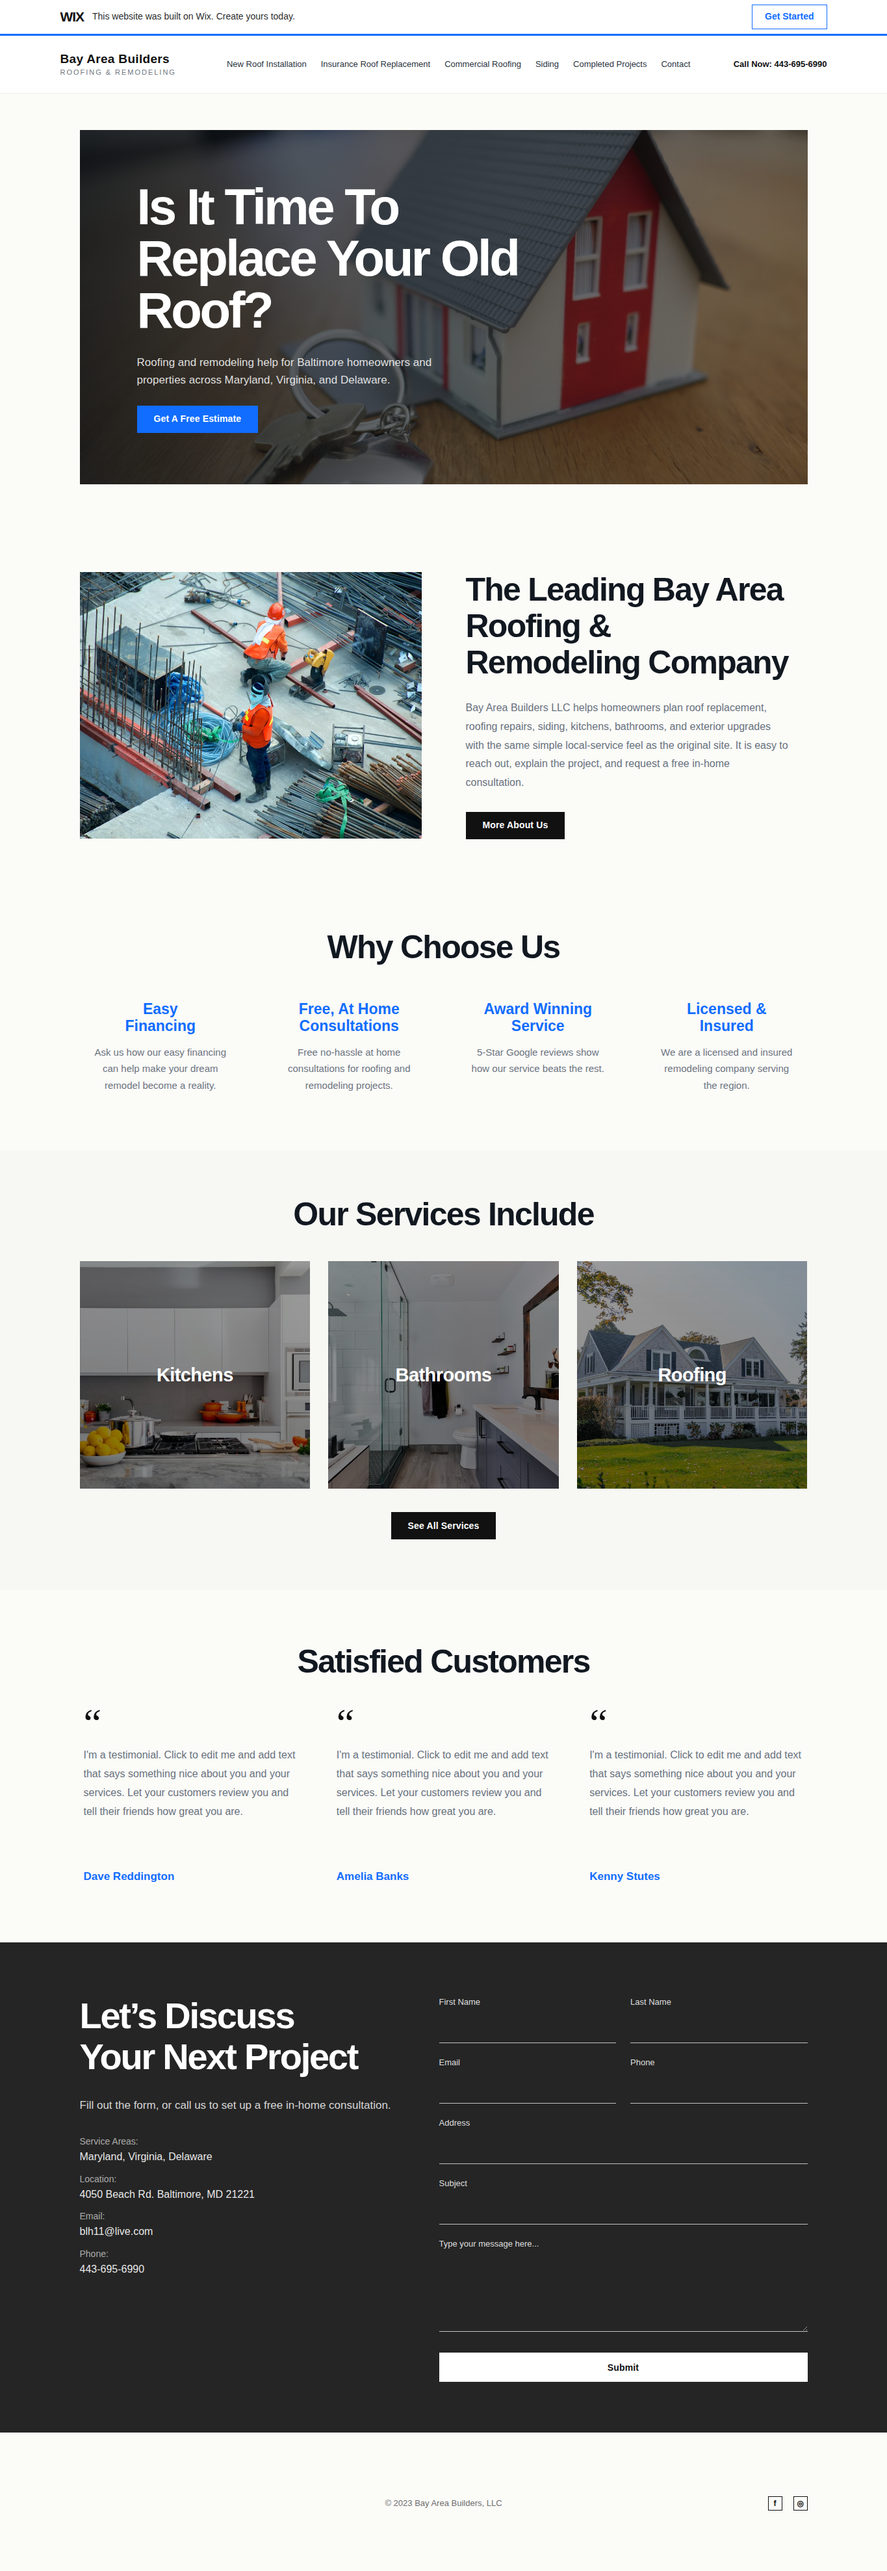
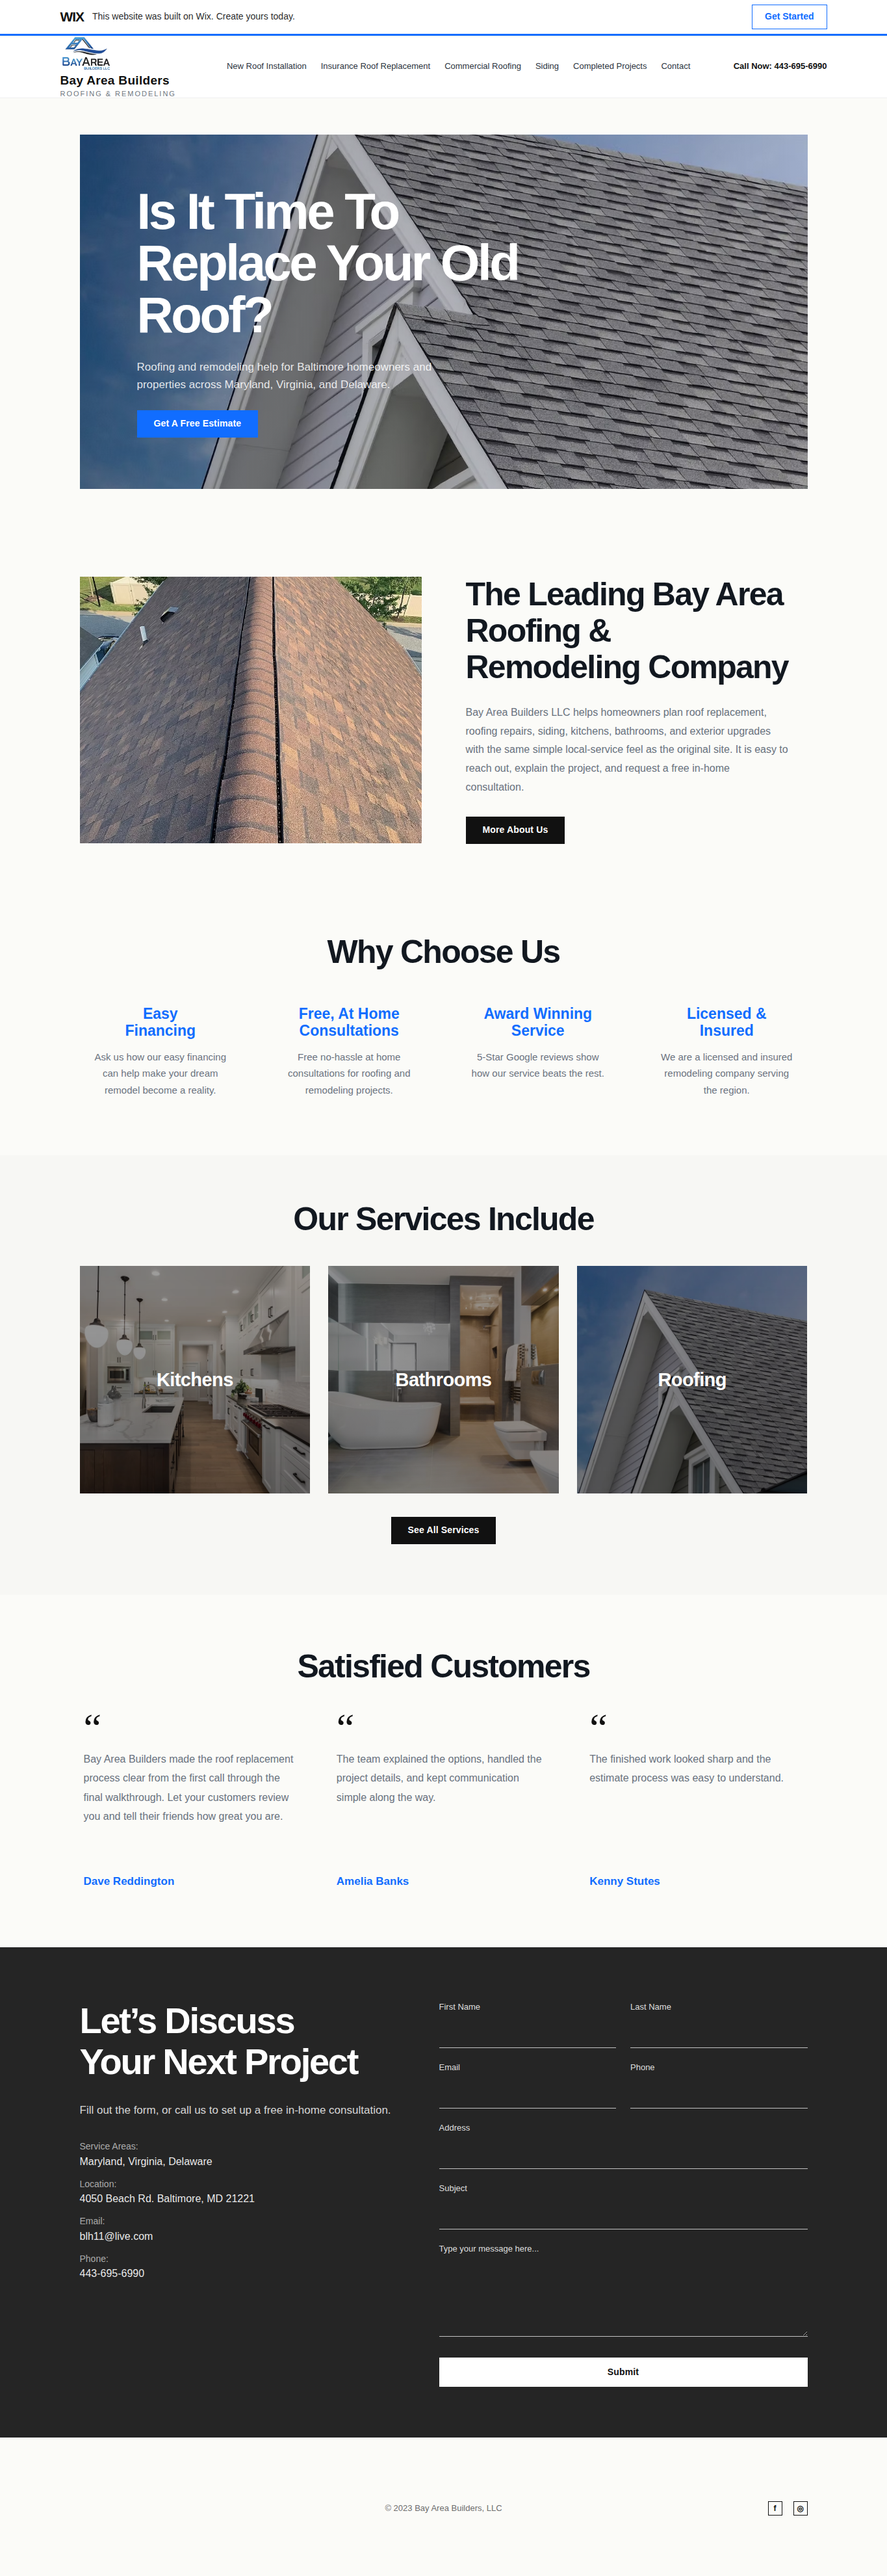
Use original Bay Area website assets

diff --git a/prototypes/2026-05-12-2117-5target-trace/bay-area-builders-llc/index.html b/prototypes/2026-05-12-2117-5target-trace/bay-area-builders-llc/index.html
@@ -119,6 +119,7 @@
       color: #111;
       letter-spacing: .02em;
     }
+    .site-logo img { width: 78px; height: auto; margin-bottom: 5px; }
     .site-logo strong {
       font-size: 19px;
       font-weight: 800;
@@ -156,8 +157,8 @@
       align-items: center;
       overflow: hidden;
       background:
-        linear-gradient(90deg, rgba(6,11,17,.82) 0%, rgba(12,17,24,.62) 43%, rgba(12,17,24,.38) 100%),
-        url('https://images.unsplash.com/photo-1560518883-ce09059eeffa?auto=format&fit=crop&w=1800&q=80') center/cover no-repeat;
+        linear-gradient(90deg, rgba(6,11,17,.42) 0%, rgba(12,17,24,.22) 43%, rgba(12,17,24,.08) 100%),
+        url('https://static.wixstatic.com/media/4f9229_83f80f6678e84729a42c4fabf33df983~mv2.jpg/v1/fill/w_1400,h_900,al_c,q_85,usm_0.66_1.00_0.01,enc_avif,quality_auto/4f9229_83f80f6678e84729a42c4fabf33df983~mv2.jpg') center/cover no-repeat;
     }
     .hero-content {
       width: min(590px, 86%);
@@ -189,7 +190,7 @@
     }
     .about-image {
       min-height: 410px;
-      background: url('https://images.unsplash.com/photo-1504307651254-35680f356dfd?auto=format&fit=crop&w=1200&q=80') center/cover no-repeat;
+      background: url('https://static.wixstatic.com/media/4f9229_153f0ac2a048447eb181a574997a1748~mv2.jpeg/v1/fill/w_900,h_1100,al_c,q_85,usm_0.66_1.00_0.01,enc_avif,quality_auto/4f9229_153f0ac2a048447eb181a574997a1748~mv2.jpeg') center/cover no-repeat;
     }
     .about-copy { padding-right: 28px; }
     .about-copy h2,
@@ -442,6 +443,7 @@
       <header id="SITE_HEADER" class="site-header xU8fqS" role="banner">
         <div class="header-inner">
           <a class="site-logo" href="my-site" aria-label="Bay Area Builders LLC home">
+            <img src="https://static.wixstatic.com/media/4f9229_8feeddc5abcb41998234a83d98b5eb2a~mv2.png/v1/fill/w_135,h_93,al_c,q_85,usm_0.66_1.00_0.01,enc_avif,quality_auto/Bay%20Area%20Builders%20Logo_edited_edited.png" alt="Bay Area Builders logo">
             <strong>Bay Area Builders</strong>
             <span>Roofing &amp; Remodeling</span>
           </a>
@@ -509,9 +511,9 @@
           <div class="section-inner">
             <h2 class="section-title">Our Services Include</h2>
             <div class="services-grid">
-              <a class="service-card" href="my-site/kitchens" style="--service-image:url('https://images.unsplash.com/photo-1556911220-bff31c812dba?auto=format&fit=crop&w=900&q=80')"><span>Kitchens</span></a>
-              <a class="service-card" href="my-site/bathrooms" style="--service-image:url('https://images.unsplash.com/photo-1584622650111-993a426fbf0a?auto=format&fit=crop&w=900&q=80')"><span>Bathrooms</span></a>
-              <a class="service-card" href="my-site/interiors" style="--service-image:url('https://images.unsplash.com/photo-1570129477492-45c003edd2be?auto=format&fit=crop&w=900&q=80')"><span>Roofing</span></a>
+              <a class="service-card" href="my-site/kitchens" style="--service-image:url('https://static.wixstatic.com/media/74f558_993f041afc4045c69c824d6022d78ca0~mv2_d_4000_2667_s_4_2.jpeg/v1/fill/w_764,h_726,fp_0.50_0.50,q_80,usm_0.66_1.00_0.01,enc_avif,quality_auto/74f558_993f041afc4045c69c824d6022d78ca0~mv2_d_4000_2667_s_4_2.jpeg')"><span>Kitchens</span></a>
+              <a class="service-card" href="my-site/bathrooms" style="--service-image:url('https://static.wixstatic.com/media/74f558_4ef3f401e4a2400a8979c42d1a7ba1a7~mv2_d_5760_3840_s_4_2.jpeg/v1/fill/w_754,h_726,fp_0.50_0.50,q_80,usm_0.66_1.00_0.01,enc_avif,quality_auto/74f558_4ef3f401e4a2400a8979c42d1a7ba1a7~mv2_d_5760_3840_s_4_2.jpeg')"><span>Bathrooms</span></a>
+              <a class="service-card" href="my-site/interiors" style="--service-image:url('https://static.wixstatic.com/media/4f9229_83f80f6678e84729a42c4fabf33df983~mv2.jpg/v1/fill/w_754,h_726,al_c,q_80,usm_0.66_1.00_0.01,enc_avif,quality_auto/4f9229_83f80f6678e84729a42c4fabf33df983~mv2.jpg')"><span>Roofing</span></a>
             </div>
             <div class="services-action">
               <a class="button" href="my-site/services">See All Services</a>
@@ -526,21 +528,21 @@
               <article class="testimonial-card">
                 <div>
                   <span class="quote-mark">“</span>
-                  <p>I'm a testimonial. Click to edit me and add text that says something nice about you and your services. Let your customers review you and tell their friends how great you are.</p>
+                  <p>Bay Area Builders made the roof replacement process clear from the first call through the final walkthrough. Let your customers review you and tell their friends how great you are.</p>
                 </div>
                 <strong>Dave Reddington</strong>
               </article>
               <article class="testimonial-card">
                 <div>
                   <span class="quote-mark">“</span>
-                  <p>I'm a testimonial. Click to edit me and add text that says something nice about you and your services. Let your customers review you and tell their friends how great you are.</p>
+                  <p>The team explained the options, handled the project details, and kept communication simple along the way.</p>
                 </div>
                 <strong>Amelia Banks</strong>
               </article>
               <article class="testimonial-card">
                 <div>
                   <span class="quote-mark">“</span>
-                  <p>I'm a testimonial. Click to edit me and add text that says something nice about you and your services. Let your customers review you and tell their friends how great you are.</p>
+                  <p>The finished work looked sharp and the estimate process was easy to understand.</p>
                 </div>
                 <strong>Kenny Stutes</strong>
               </article>
